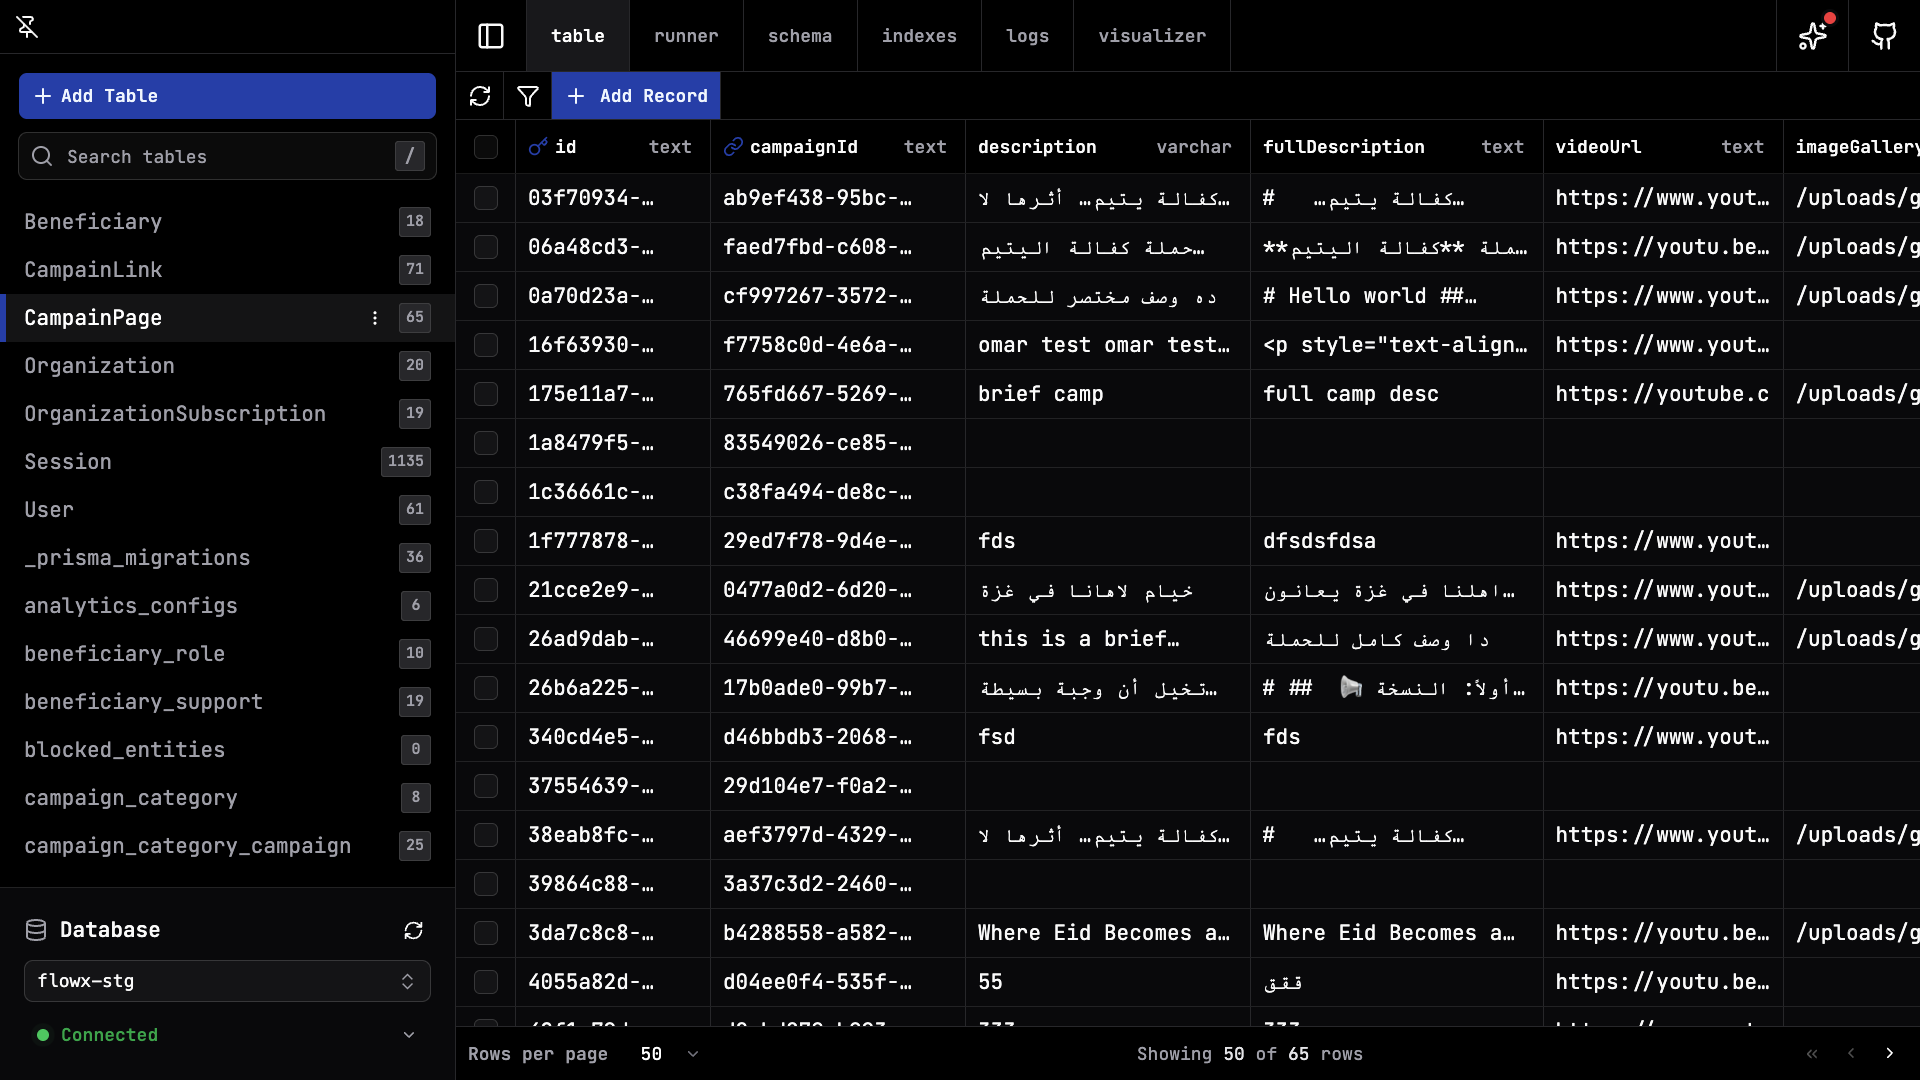
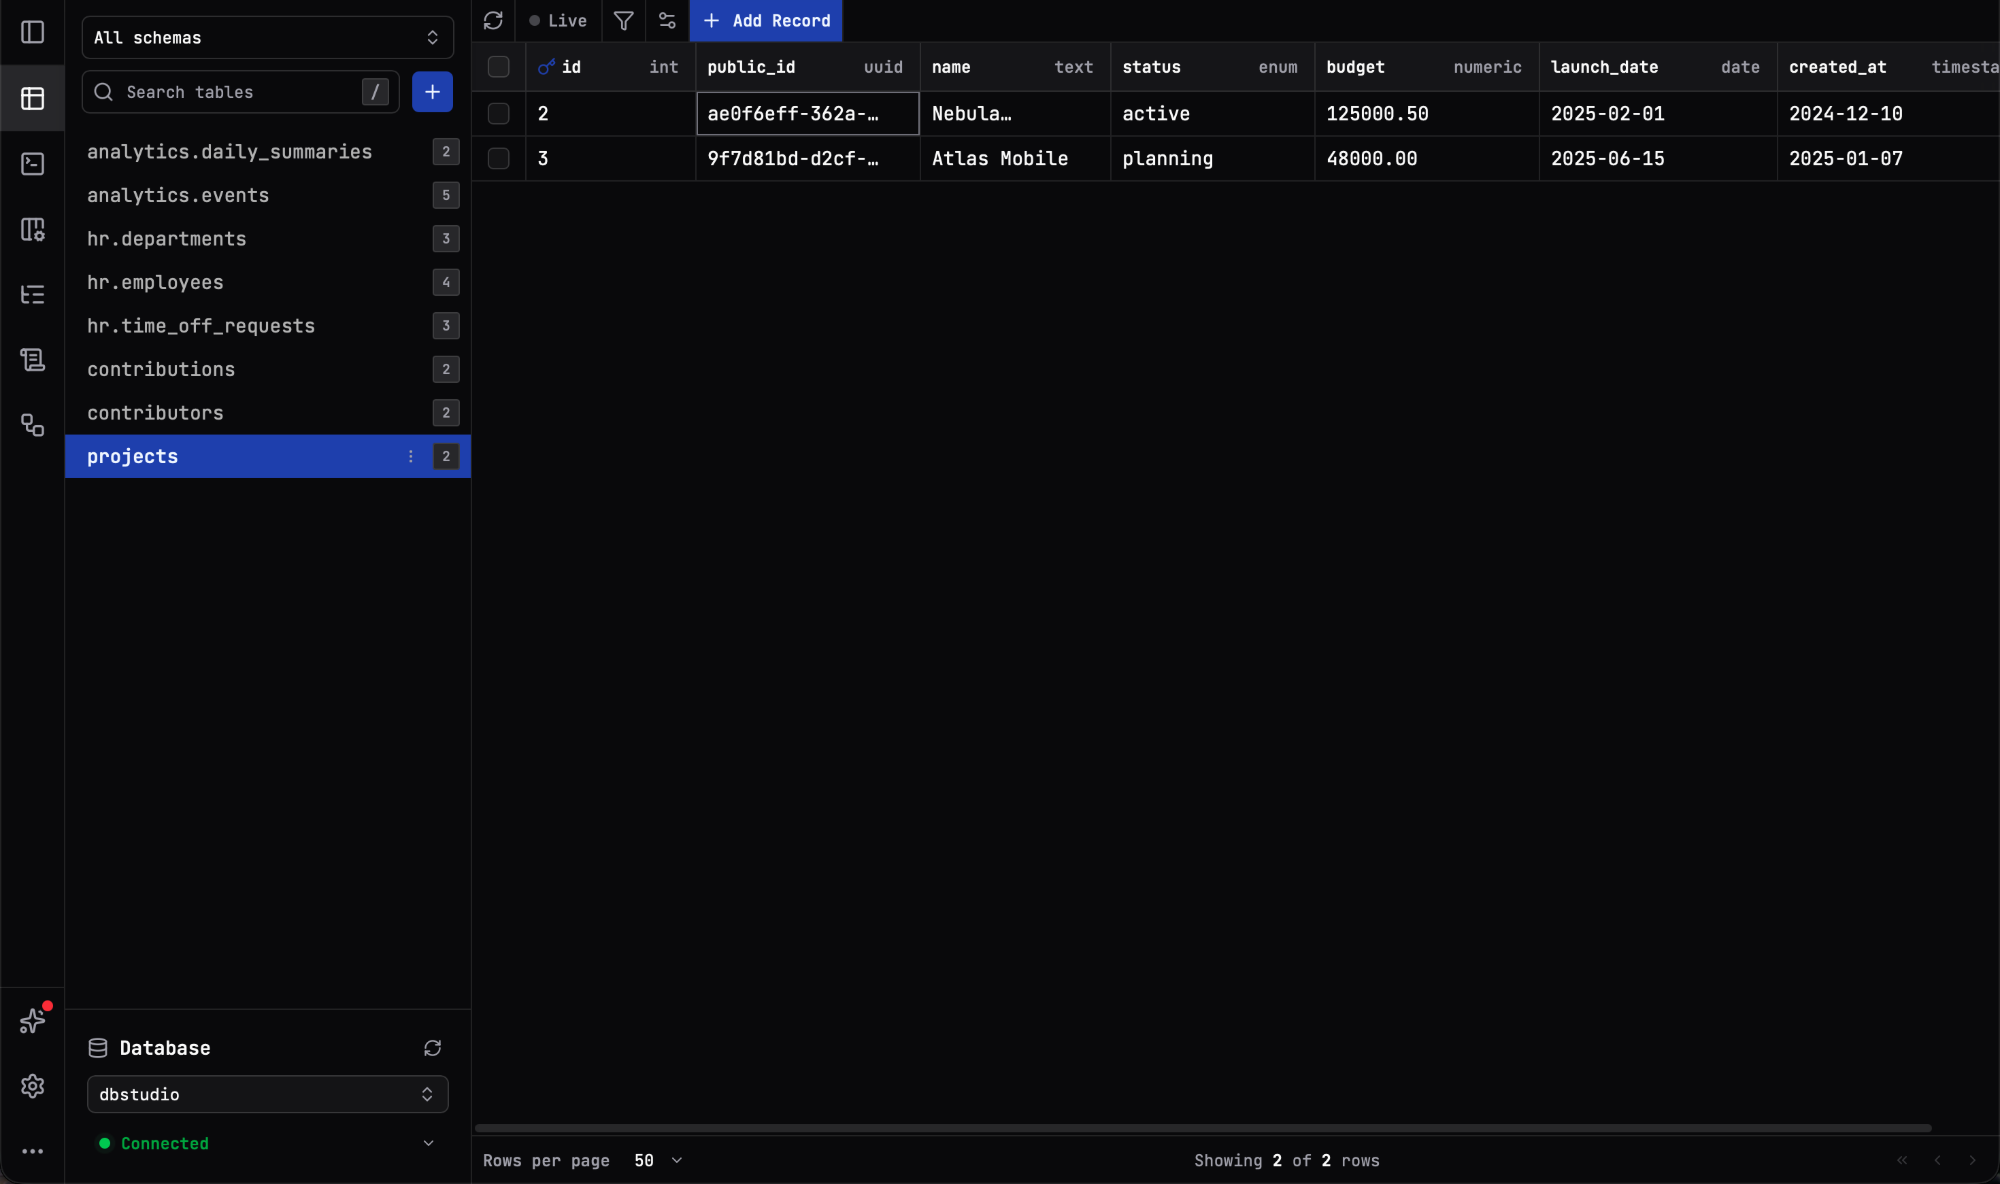
docs(www): refresh layout screenshots
Use the updated branded image for Open Graph previews and README screenshots. Show the standalone app screenshot on the website homepage and match its intrinsic dimensions.

diff --git a/www/src/routes/(main)/_pathlessLayout/index.tsx b/www/src/routes/(main)/_pathlessLayout/index.tsx
@@ -234,8 +234,8 @@ function App() {
 					<img
 						src="/studio.png"
 						alt="db-studio"
-						width={1000}
-						height={1000}
+						width={2000}
+						height={1184}
 						className="w-full h-full object-contain"
 					/>
 
